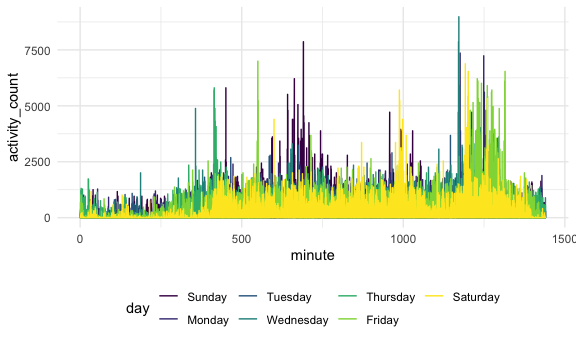
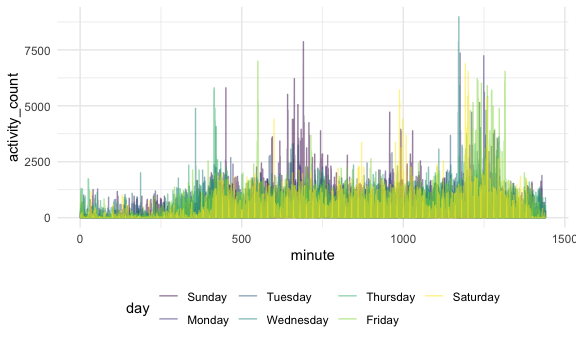
Improving snow count code

diff --git a/p8105_hw3_yoa2102.md b/p8105_hw3_yoa2102.md
@@ -1,6 +1,41 @@
 Homework 3
 ================
 
+``` r
+library(tidyverse)
+```
+
+    ## ── Attaching packages ────────────────────────────────────────────────────── tidyverse 1.3.0 ──
+
+    ## ✓ ggplot2 3.3.2     ✓ purrr   0.3.4
+    ## ✓ tibble  3.0.3     ✓ dplyr   1.0.2
+    ## ✓ tidyr   1.1.2     ✓ stringr 1.4.0
+    ## ✓ readr   1.3.1     ✓ forcats 0.5.0
+
+    ## ── Conflicts ───────────────────────────────────────────────────────── tidyverse_conflicts() ──
+    ## x dplyr::filter() masks stats::filter()
+    ## x dplyr::lag()    masks stats::lag()
+
+``` r
+library(hexbin)
+library(ggridges)
+library(patchwork)
+library(p8105.datasets)
+
+knitr::opts_chunk$set(
+    fig.width = 6, 
+  fig.asp = .6,
+  out.width = "90%"
+)
+theme_set(theme_minimal() + theme(legend.position = "bottom"))
+options(
+  ggplot2.continuous.colour = "viridis",
+  ggplot2.continuous.fill = "viridis"
+)
+scale_colour_discrete = scale_colour_viridis_d
+scale_fill_discrete = scale_fill_viridis_d
+```
+
 ### Problem 1
 
 #### How many aisles, and which are most items from?
@@ -152,10 +187,14 @@ test %>%
 #### Creating a single-panel plot that shows the 24-hour activity time courses for each day.
 
 ``` r
-activity_plot =
 accel_df %>%
   ggplot(aes(x = minute, y = activity_count, color = day)) + 
-  geom_line(aes(group = day))
+  geom_line(aes(group = day), alpha = 0.5)
+```
+
+<img src="p8105_hw3_yoa2102_files/figure-gfm/unnamed-chunk-7-1.png" width="90%" />
+
+``` r
   geom_smooth(aes(group = day), se = FALSE)
 ```
 
@@ -167,8 +206,7 @@ accel_df %>%
 ``` r
   labs(
     title = "24 hr Activity Time Courses"
-    
-  )
+    )
 ```
 
     ## $title
@@ -205,7 +243,7 @@ ny_noaa_clean =
 common_snow = 
 ny_noaa_clean %>%
   group_by(snow) %>%
-  summarize(n_obs = n()) 
+  summarize(n_obs = n())
 ```
 
     ## `summarise()` ungrouping output (override with `.groups` argument)
@@ -218,7 +256,7 @@ filter(month %in% c("1", "7")) %>%
 mutate(month = month.name[month]) %>%
 group_by(id, year, month) %>%
 summarize(mean_tmax = mean(tmax, na.rm = TRUE)) %>%
-ggplot(aes(x = year, y = mean_tmax, group = id, color = id)) +
+ggplot(aes(x = year, y = mean_tmax, group = id)) +
   geom_line() +
   geom_path() +
   facet_grid(~ month) +
